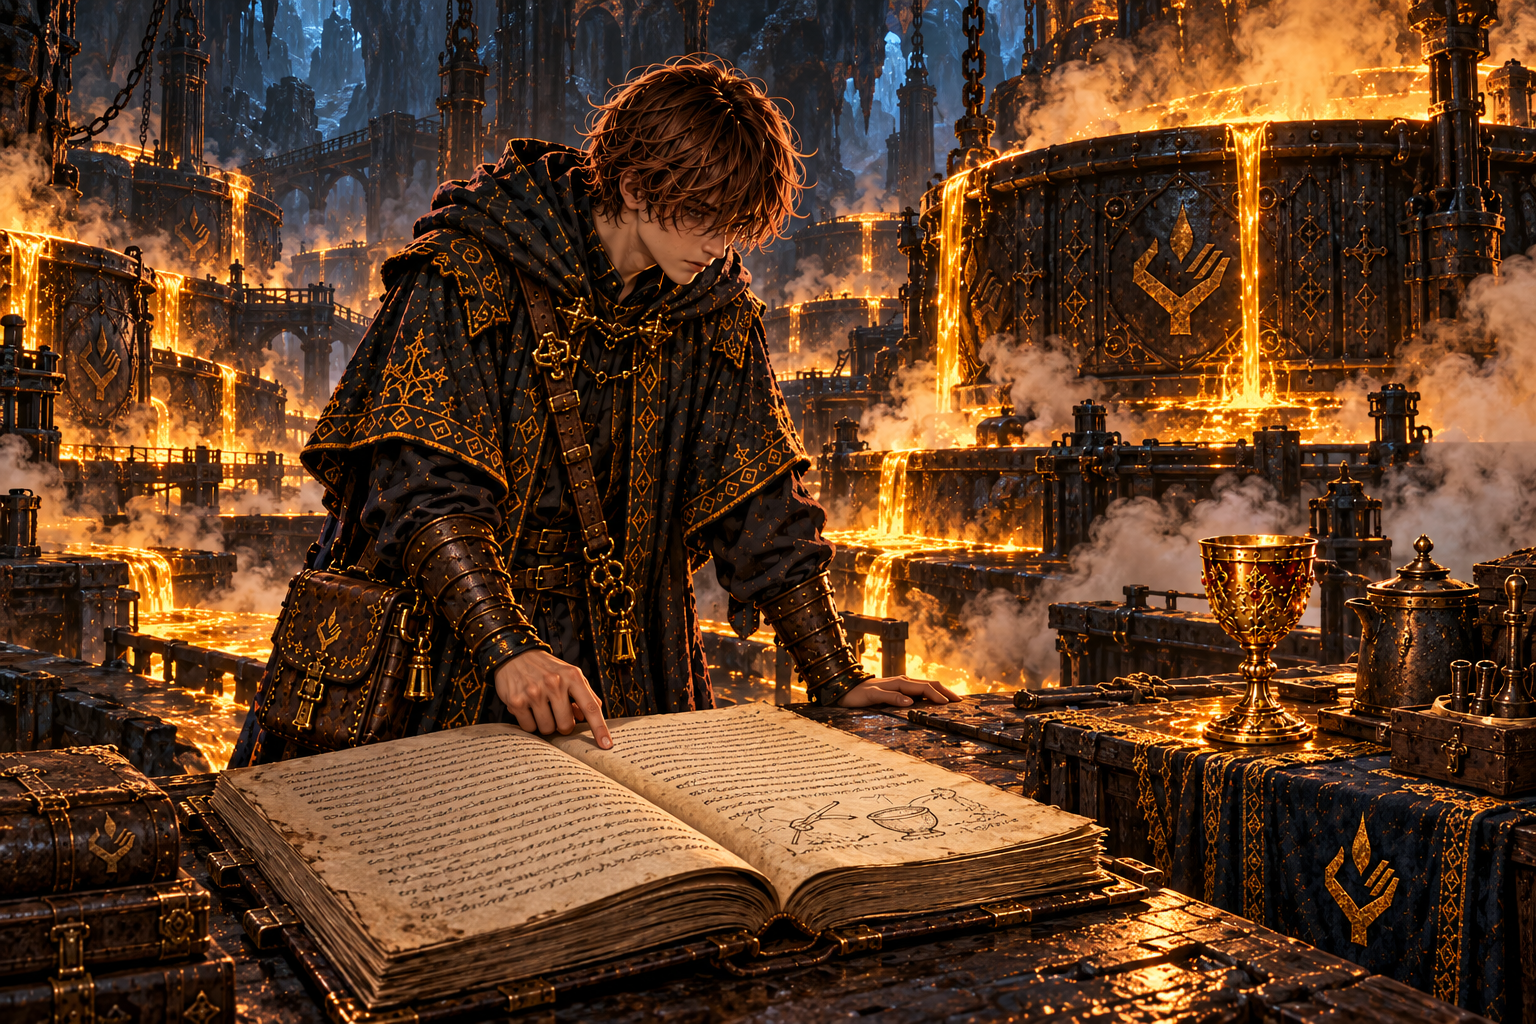
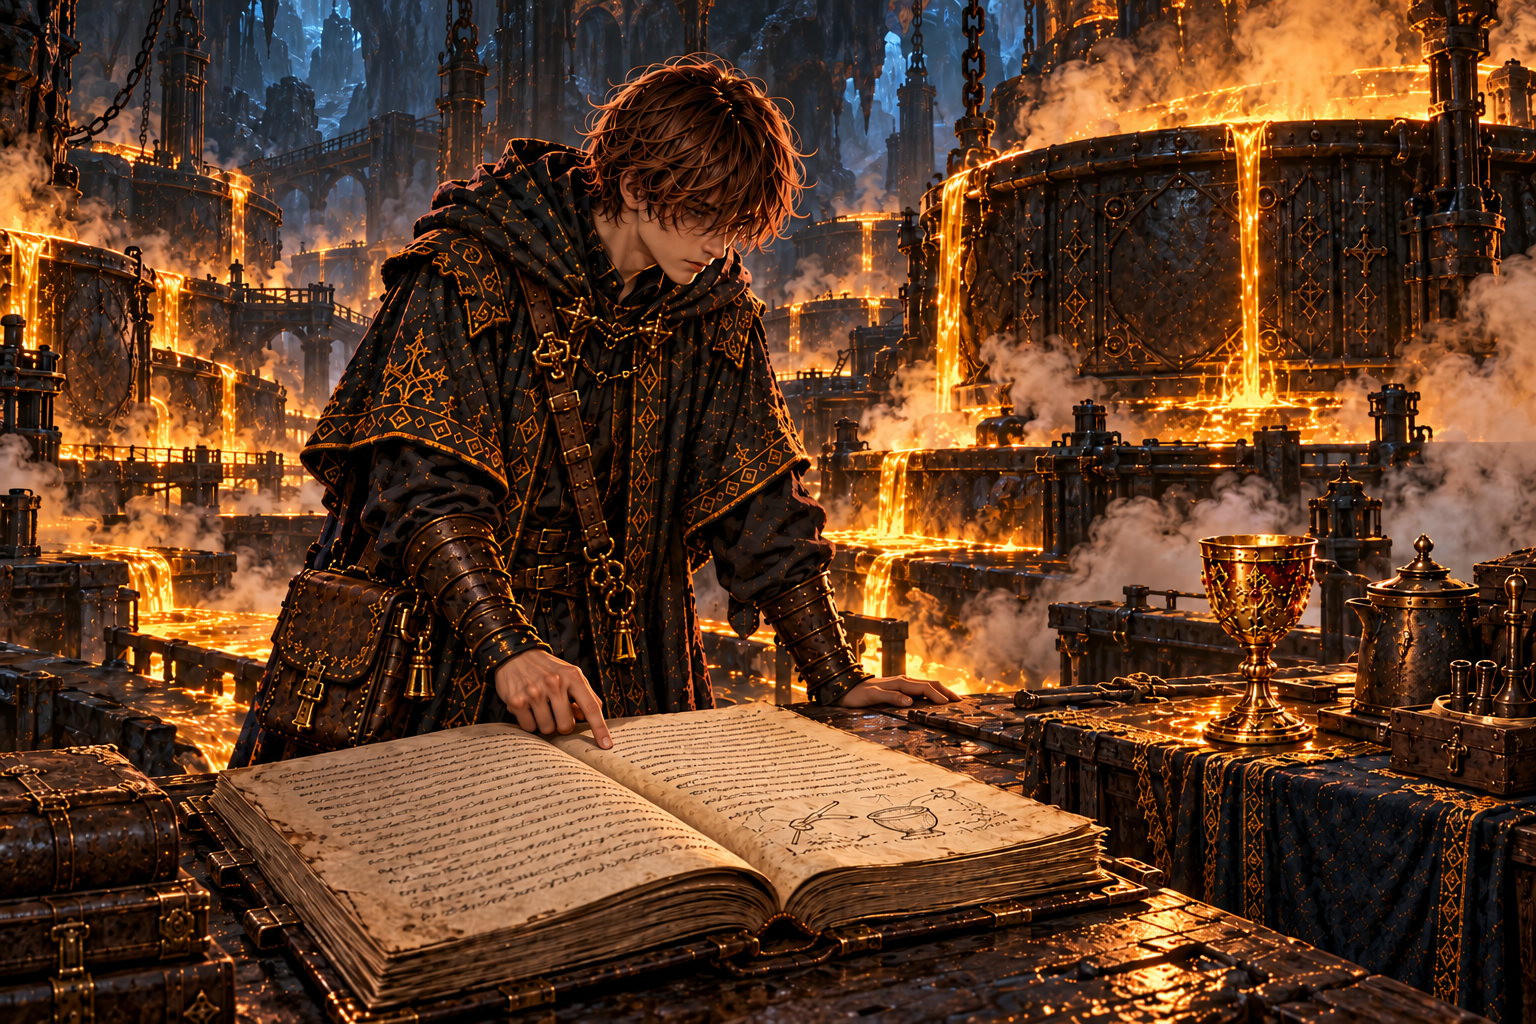
「三百年分の一行」の釜と備品から一門の印を削除

diff --git a/docs/art/codex-story-art-brief.md b/docs/art/codex-story-art-brief.md
@@ -547,6 +547,13 @@ Character reference sheet on a plain dark slate-blue background with soft even l
 ...except: restore ONLY the floor and ALL stone stairs, including the background steps on BOTH sides of the king, to ordinary intact dark polished stone masonry with normal non-glowing joints. Remove ALL red-orange glowing cracks, lava, molten seams, fire from under the floor or stairs, their red reflected light, and ALL steam or smoke rising from the floor or stairs. This is an unusually hot ordinary throne room, not a volcanic chamber. Normal warm candlelight reflections are allowed. Preserve exactly the angry seated king gripping the armrests, the apprentice holding the charred wooden face fragment, their faces, hands, costumes and crests, the empty chancellor chair, the map, scrolls and goblets on the foreground table, the red textiles, lit candles, gothic architecture, heavy clouds, original composition and fine-grained pixel-textured style. Do not add people or objects.
 ```
 
+**A-42. 第五章 w20_cup「三百年分の一行」備品の一門の印を除去** `art/story-review/chapter5/w20_cup.png` (済)
+- 直す (2026-10-17 ユーザーの指示): 釜やテーブルクロスに表示された一門の印をすべて削除。右上の大釜・左側の大小の釜・遠景の釜、右手前のテーブルクロス、左下の箱にある印も含め、背景・備品に付いた手と炎の印を残さず消す。金属・布・木の質感で自然に埋める。
+- 保つもの: 弟子の顔・髪・手・衣装と衣装の一門の印、帳面・筆記・図、金の杯、釜の形と湯気、鎖・足場、構図・画風・光。修正前は `art/story-review/fixes/w20_cup-before.png` に保存。
+```text
+...except: REMOVE EVERY gold hand-and-flame family crest / palm-and-teardrop emblem from ALL ENVIRONMENTAL OBJECTS in this scene. Remove the large crest from the huge upper-right cauldron, the crests from ALL left-side and distant cauldrons (including the far upper-left cauldron and the mid-left cauldron), the large crest from the dark tablecloth at the lower-right, and ALL such crests from the stacked chests/boxes in the lower-left corner, including the partially cropped bottom one. Inspect the entire image for remaining palm-and-flame motifs on cauldrons, cloth, boxes or any other background object and remove them all. Fill each removed emblem locally with continuous matching unmarked material: dark riveted iron on cauldrons, naturally folded dark fabric on the tablecloth, and worn box panels on chests, preserving existing texture, perspective, edge details, ornamental borders, and amber lighting. Do not replace the crests with other symbols. The apprentice's clothing and the small crests ON HIS CLOTHING must remain exactly unchanged. Preserve the apprentice's face, hair, hands and tracing gesture, the open ledger and its writing and recipe sketch, golden goblet, all object shapes, molten amber sap, steam, chains, cavern, camera composition, fine pixel texture and warm/cool lighting. No other changes, no new people or objects.
+```
+
 ### B. 任意 (余力があれば。読者が気づきやすい順)
 
 | 場面 | 直すこと |
@@ -697,9 +704,9 @@ The same throne room, hotter than before, but with ordinary intact dark stone fl
 
 **w20_cup「三百年分の一行」** (手がかり / 迷宮「魂を煮る釜場」)
 - 要点: いちばん大きな釜の脇の作業台に、金の杯と、開いたままの分厚い帳面。同じ一行が頁という頁に三百年分。最後の頁に師の字の調合の書きつけ。
-- 描くもの: 並ぶ大釜と湯気 / 作業台の金の杯 / 開いた分厚い帳面 (同じ行がびっしり、最後の頁だけ別の筆跡) / 読む弟子。
+- 描くもの: 並ぶ大釜と湯気 / 作業台の金の杯 / 開いた分厚い帳面 (同じ行がびっしり、最後の頁だけ別の筆跡) / 読む弟子。釜・テーブルクロス・箱などの備品に一門の印を描かない。
 ```text
-A vast cavern of soul-boiling cauldrons: rows of enormous iron cauldrons bubbling with glowing amber sap and steam. Beside the largest one stands a worktable holding a single golden goblet and a huge, thick open ledger whose pages are filled with endless identical lines of tiny writing; the last page carries a different, hurried handwriting with a small recipe sketch. The apprentice bends over the ledger, one gloved finger tracing the final page. Warm infernal light, steam, intricate metal and paper detail.
+A vast cavern of soul-boiling cauldrons: rows of enormous iron cauldrons bubbling with glowing amber sap and steam. Beside the largest one stands a worktable holding a single golden goblet and a huge, thick open ledger whose pages are filled with endless identical lines of tiny writing; the last page carries a different, hurried handwriting with a small recipe sketch. The apprentice bends over the ledger, one gloved finger tracing the final page. Warm infernal light, steam, intricate metal and paper detail. Do not place any palm-and-flame family crests on cauldrons, tablecloths, boxes, or other environmental objects; the apprentice clothing retains its own crests.
 ```
 
 **report_w20「床に置かれた杯」** (報告)

diff --git a/art/story-review/review/chapter5.md b/art/story-review/review/chapter5.md
@@ -230,7 +230,7 @@
 **指示書 (4章)**
 
 - 要点: いちばん大きな釜の脇の作業台に、金の杯と、開いたままの分厚い帳面。同じ一行が頁という頁に三百年分。最後の頁に師の字の調合の書きつけ。
-- 描くもの: 並ぶ大釜と湯気 / 作業台の金の杯 / 開いた分厚い帳面 (同じ行がびっしり、最後の頁だけ別の筆跡) / 読む弟子。
+- 描くもの: 並ぶ大釜と湯気 / 作業台の金の杯 / 開いた分厚い帳面 (同じ行がびっしり、最後の頁だけ別の筆跡) / 読む弟子。釜・テーブルクロス・箱などの備品に一門の印を描かない。
 
 <a name="report_w20"></a>
 
